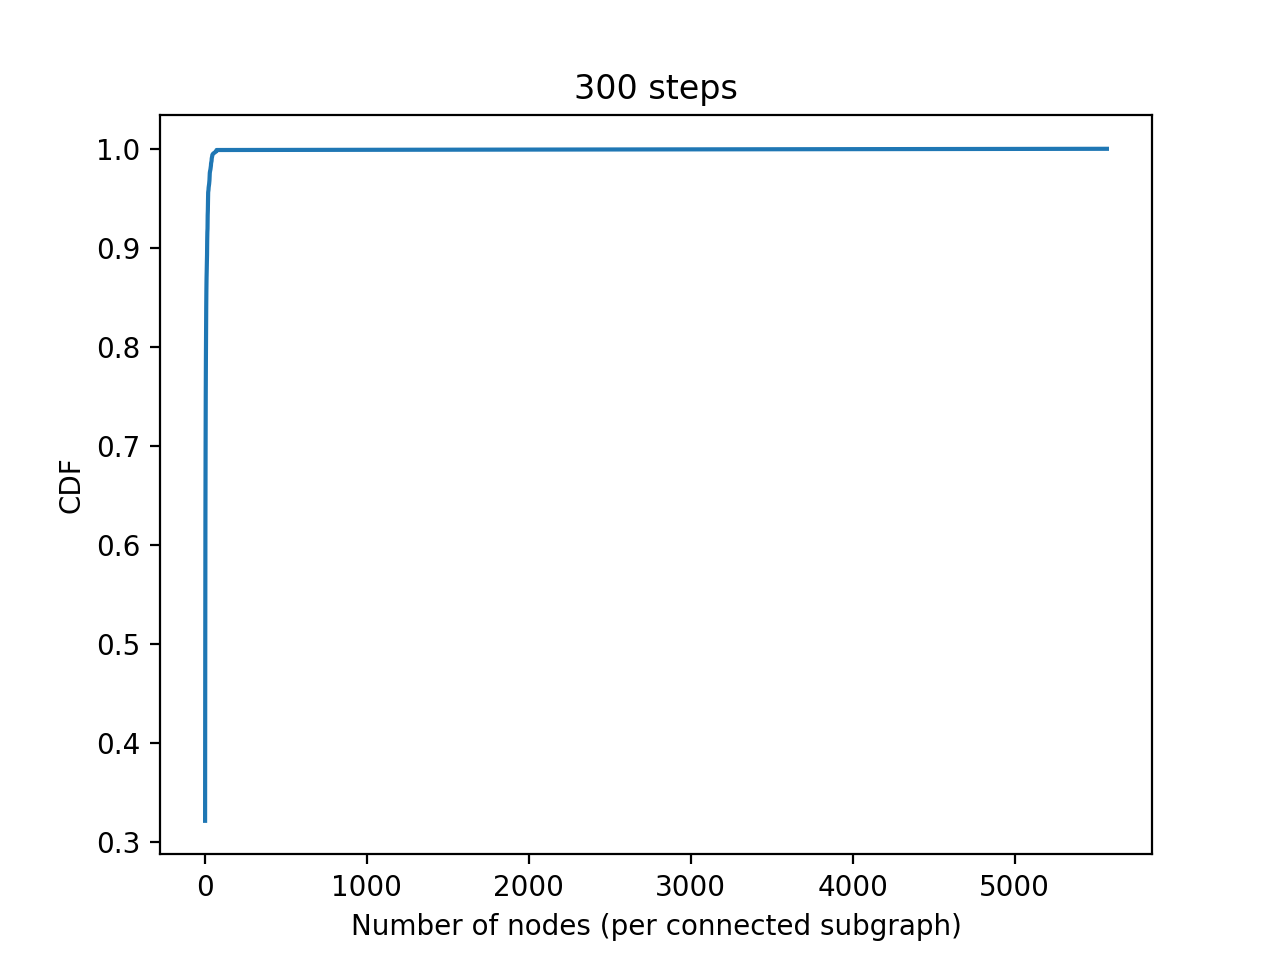
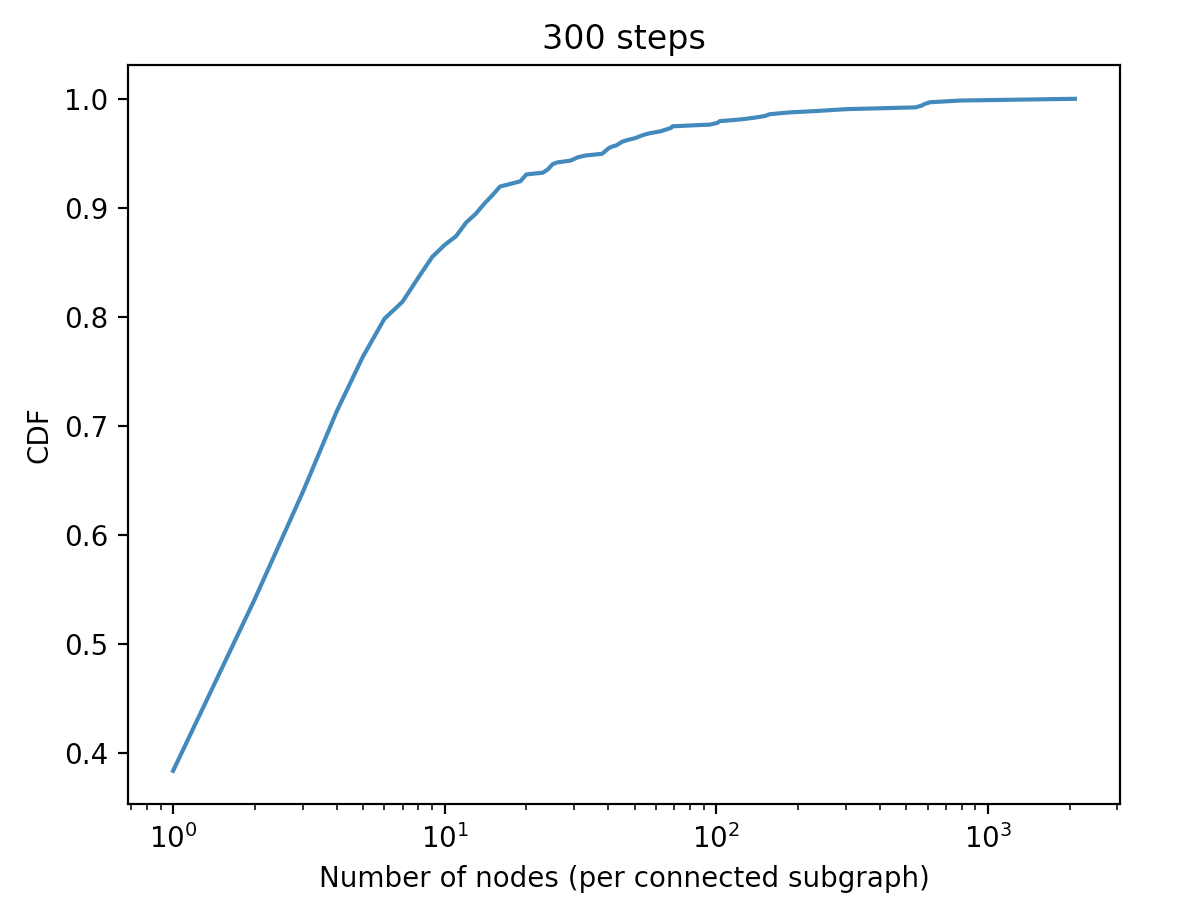
generate log xscale for cdf

diff --git a/code/graphAnalysis.py b/code/graphAnalysis.py
@@ -108,6 +108,7 @@ def plot_graph_cdf(G, steps=None):
     plt.title(title, fontdict=None, loc='center', pad=None)
     plt.xlabel('Number of nodes (per connected subgraph)')
     plt.ylabel('CDF')
+    plt.xscale('log')
     plot(val, cdf)
     show()
 
@@ -117,8 +118,8 @@ def plot_graph_pmf(G, steps=None):
     plt.show()
 
 G = convert_graph_draw(hexmap, steps=300)
-plot_graph_pmf(G,300)
-# plot_graph_cdf(G,)
+# plot_graph_pmf(G,300)
+plot_graph_cdf(G, 300)
 
 
 
